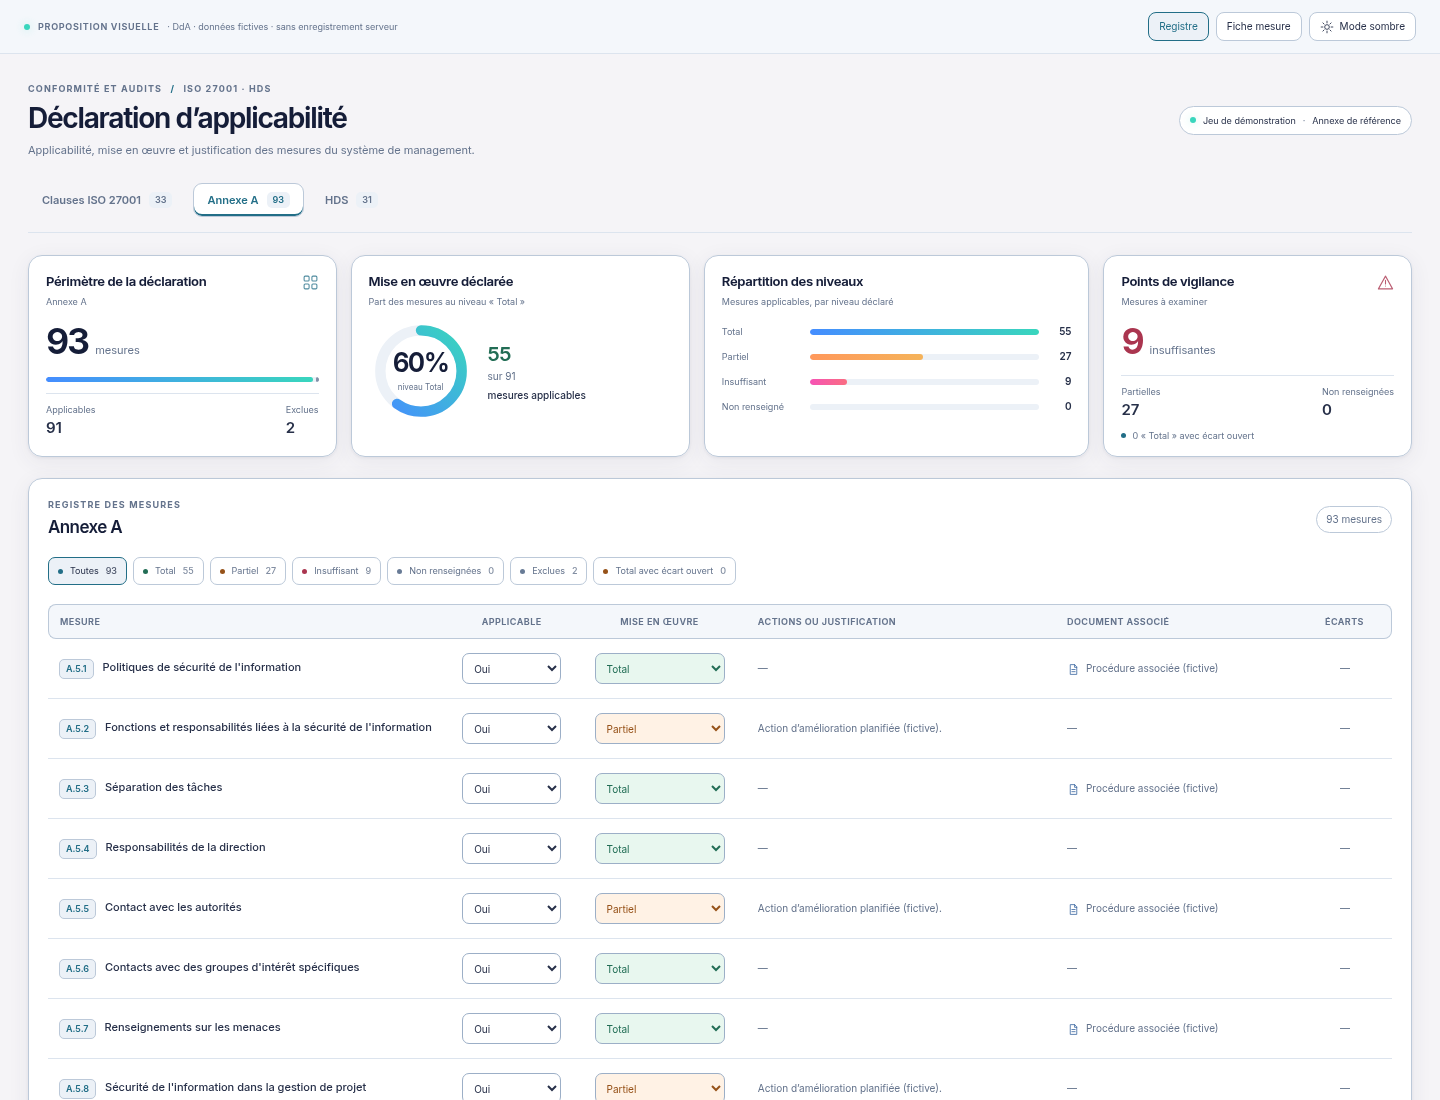
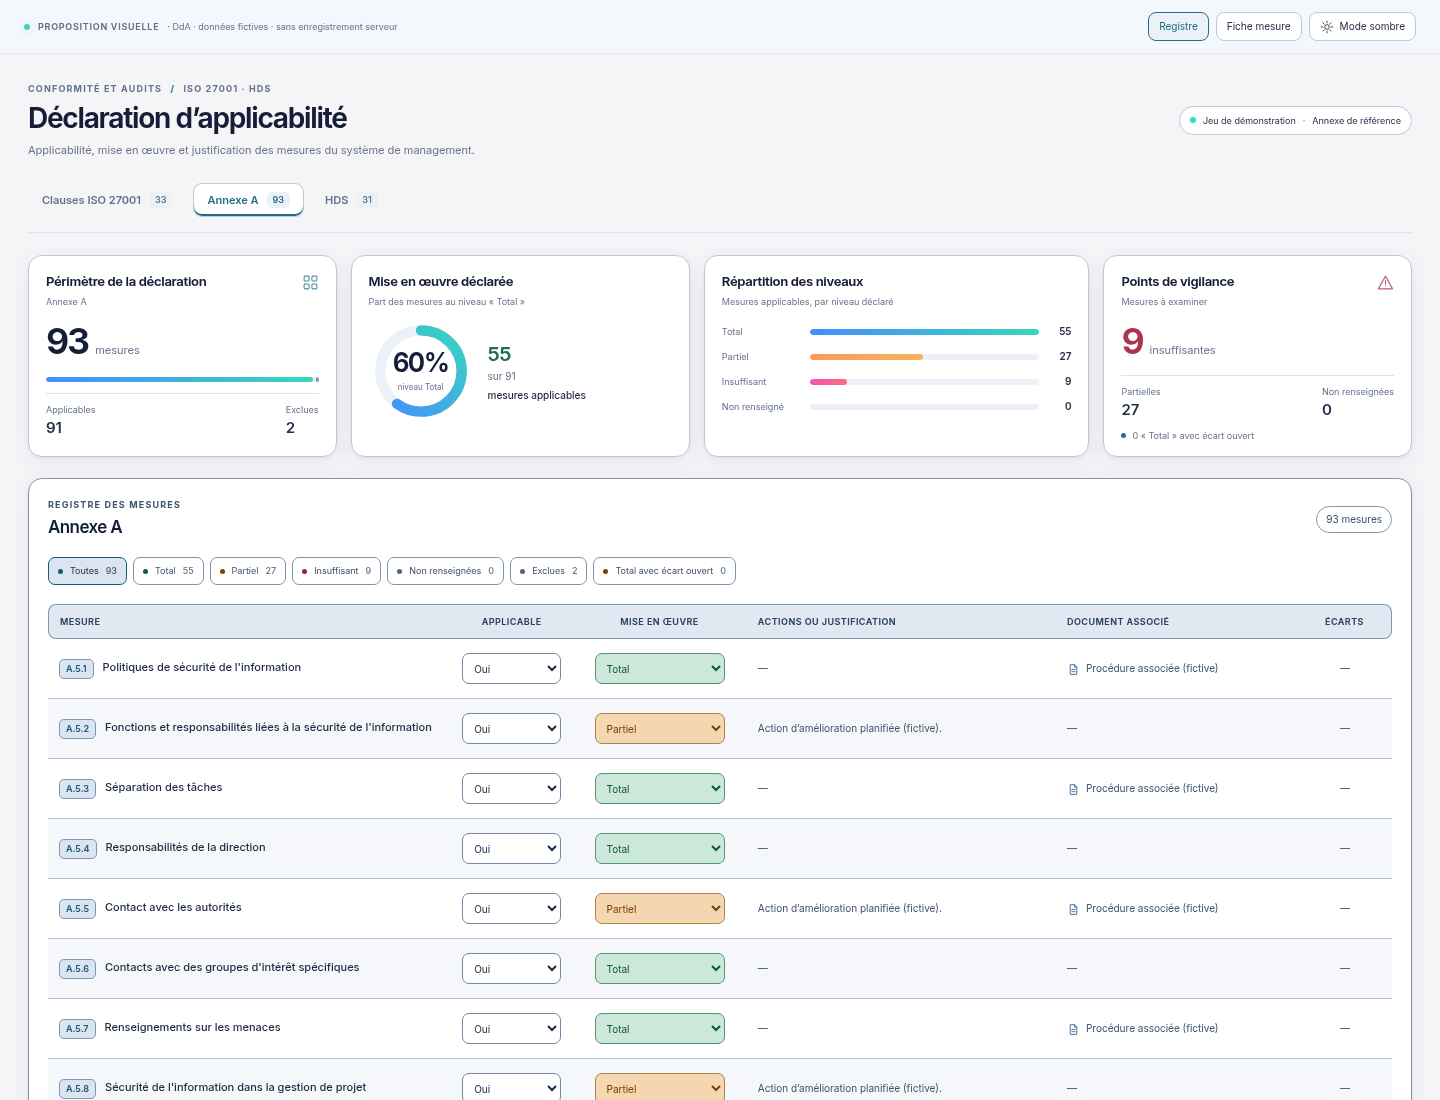
docs(neon): renforcer le contraste du tableau DdA clair
Foncer les textes, contours et fonds de niveaux dans la maquette.
Fournir les visuels actualisés avant intégration.

Session : Codex (01a193c1-316c-7677-831f-2f31592aa052)

diff --git a/docs/refonte-neon/propositions/dda-dashboard/index.html b/docs/refonte-neon/propositions/dda-dashboard/index.html
@@ -13,6 +13,23 @@ main{max-width:1440px;margin:auto;padding:28px 28px 24px}.page-heading{display:f
 @media(max-width:1100px){.stats-grid{grid-template-columns:repeat(2,minmax(0,1fr))}.fiche-grid{grid-template-columns:minmax(0,1fr) 250px}.prototype-label>span:last-child{display:none}}
 @media(max-width:700px){.prototype-bar{align-items:flex-start;padding:10px 14px;gap:9px;flex-wrap:wrap}.prototype-label{font-size:8px}.preview-tools{width:100%;gap:5px}.tool{font-size:9px;padding:5px 8px}.theme-tool{margin-left:auto}main{padding:20px 14px}.page-heading{display:block;margin-bottom:18px}.page-heading h1{font-size:25px}.page-heading p{font-size:10px}.eyebrow{font-size:8px}.scope-pill{display:none}.ref-tabs{gap:3px;margin-bottom:16px;padding-bottom:12px}.ref-tabs button{padding:7px 8px;gap:4px;font-size:10px}.ref-tabs button span{font-size:8px;padding:1px 4px}.stats-grid{gap:10px;margin-bottom:16px}.stat-card{min-height:177px;padding:12px}.stat-card h2{font-size:11px;max-width:95%}.stat-card .corner-i{display:none}.sub{font-size:8px}.grand-chiffre{font-size:32px;margin-top:12px}.grand-chiffre small{display:block;margin:0;font-size:10px}.mini-bar{margin:10px 0}.stats-foot{gap:6px;padding-top:7px}.stats-foot span{font-size:8px}.stats-foot strong{font-size:13px}.donut-line{display:block;margin-top:7px}.donut{width:78px;height:78px;margin:auto}.donut .centre strong{font-size:21px}.donut .centre small{font-size:7px}.donut-caption{text-align:center;font-size:8px;line-height:1.3}.donut-caption strong{display:inline;font-size:12px;margin-right:4px}.donut-caption b{display:none}.niveau-list{gap:11px;margin-top:15px}.niveau{grid-template-columns:58px minmax(0,1fr) 15px;gap:5px;font-size:8px}.niveau b{font-size:9px}.rail{height:5px}.vigilance .grand-chiffre small{font-size:9px}.quiet-note{font-size:8px}.registre-panel{padding:14px 12px 0}.registre-heading{gap:8px;margin-bottom:12px}.section-kicker{font-size:8px}.registre-heading h2{font-size:15px}.mesure-count{font-size:8px;padding:4px 6px}.filters{gap:5px;margin-bottom:7px}.filter{padding:5px 6px;font-size:8px;gap:4px}.filter b{font-size:8px}.filter .dot{width:4px;height:4px}table,tbody{display:block;width:100%}thead{display:none}tbody tr{display:grid;grid-template-columns:1fr 1fr;gap:12px 9px;padding:17px 0;border-bottom:1px solid var(--line)}tbody td{display:block;min-width:0;padding:0;border:0}.mesure-cell,.actions-cell,.document-cell,.ecarts-cell{grid-column:1/-1}.mesure-ouvrir{font-size:11px;gap:7px}.mesure-code{font-size:8px}.cell-control{text-align:left}.cell-control:before,.actions-cell:before,.document-cell:before,.ecarts-cell:before{display:block;content:attr(data-label);margin-bottom:5px;color:var(--muted);font-size:8px;font-weight:600}.cell-control select{max-width:none;font-size:10px}.action-texte,.doc-line{font-size:9px}.actions-cell:has(.vide),.document-cell:has(.vide),.ecarts-cell:has(.vide){display:none}.ecarts-cell{text-align:left}.page-foot{font-size:9px}.fiche-panel{padding:16px}.fiche-heading{gap:10px;padding-bottom:16px;margin-bottom:17px}.fiche-heading h2{font-size:18px}.fiche-grid{grid-template-columns:minmax(0,1fr);gap:16px}.fiche-main{gap:15px}.form-section{padding:13px}.form-section legend{font-size:11px}.form-row{grid-template-columns:minmax(0,1fr);gap:0}.champ>span{font-size:10px}.champ select,.champ input,.champ textarea{font-size:11px}.aside-card{padding:14px}.close{width:28px;height:28px}}
 @media(prefers-reduced-motion:reduce){*{scroll-behavior:auto!important;animation:none!important;transition:none!important}}
+
+/* Ajustement demandé le 03/11/2026 : contraste du registre clair uniquement. */
+html[data-theme=light] .registre-panel{
+ --text:#1e2b42;--title:#111f36;--muted:#40536b;
+ --line:#7f96b1;--line-soft:#b3c2d5;--paper:#e1e8f2;
+ --cyan:#145b75;--blue:#285b93;--teal:#14563d;--orange:#794009;--rose:#91263f;--inactive:#50647f;
+ --field-border:#7189a5;--ok-bg:#cbe8da;--part-bg:#f4d6b1;--bad-bg:#efc5d1;--neutral-bg:#dbe4f0;
+}
+html[data-theme=light] .registre-panel thead th{color:#30435f}
+html[data-theme=light] .registre-panel .cell-control select.ok{border-color:#579276}
+html[data-theme=light] .registre-panel .cell-control select.part{border-color:#b08249}
+html[data-theme=light] .registre-panel .cell-control select.bad{border-color:#b3627b}
+html[data-theme=light] .registre-panel .cell-control select.none{border-color:#7f96b1}
+@media(min-width:701px){
+ html[data-theme=light] .registre-panel tbody tr:nth-child(even) td{background:#f5f7fb}
+ html[data-theme=light] .registre-panel tbody tr:hover td{background:#eaf0f7}
+}
 </style></head>
 <body>
 <svg class="symboles" aria-hidden="true"><defs>

diff --git a/HANDOVER.md b/HANDOVER.md
@@ -1,3 +1,5 @@
+> 03/11/2026 : [maquette DdA claire : contraste du tableau renforcé](docs/refonte-neon/propositions/dda-dashboard/README.md#ajustement-du-03112026--tableau-clair-plus-contrasté). Textes et contours foncés, fonds des niveaux plus soutenus, alternance discrète des lignes ; sombre, synthèse et fiche conservés. Quatre nouveaux rendus autonomes. **Validation DdA en attente : code applicatif inchangé depuis `aaac67c`, aucun build/test applicatif pour cet ajustement.** Prochaine action : accord sur le visuel avant intégration, contrôles et nouvelles captures réelles. Session : Codex.
+
 > 02/11/2026 — **état actuel : en-têtes Dashboard explicitement validés et intégrés au commit `aaac67cfe8e4edc130cc6e68094be2f670d7b633`**. [Captures réelles et contrôles](docs/refonte-neon/ENTETES-DASHBOARD.md) : TypeScript, lint, build, 3 tests de charte, scénario e2e Objectifs existant, 24 vues et 8 analyses Axe réussis. Version B conservée. **Nouvelle [proposition DdA depuis les images originales du début](docs/refonte-neon/propositions/dda-dashboard/README.md)** : bleu nuit/ardoise, cartes arrondies, accents bleu/turquoise/orange/rose, peu de violet ; registre, fiche, clair/sombre et mobile. **Seule la validation de cette DdA est en attente : aucun changement de son code ni build/test de sa refonte.** Après accord, intégrer son habillage en conservant calculs, filtres, droits et écritures, tester puis fournir de nouveaux visuels réels. Ne pas redemander l’accord des en-têtes déjà exécuté. Les entrées suivantes conservent les états historiques. Session : Codex.
 
 > 02/11/2026 : [nouvelle proposition d’en-têtes dans le thème Dashboard](docs/refonte-neon/propositions/entetes-dashboard/README.md), après rappel de l’image et du HTML initiaux. Coins arrondis, surfaces ardoise, accents cyan/bleu/turquoise, violet réservé à la cible. **Validation de cette barre en attente**, application inchangée depuis `eaadcf2`, aucun build/test applicatif. **Suite explicitement demandée après validation : intégrer/contrôler la barre puis préparer la maquette DdA dans le même thème, sans excès de violet ; validation visuelle DdA avant ses modifications applicatives.**

diff --git a/docs/refonte-neon/propositions/dda-dashboard/README.md b/docs/refonte-neon/propositions/dda-dashboard/README.md
@@ -6,6 +6,16 @@
 
 La demande précise : **« Pour la dda tu utilise le thème original que j'ai fournis en images au début de la conversation »**. Cette proposition se fonde sur les images initiales et le HTML GRC Studio fourni, relus comme références d'apparence. Elle ne reprend aucune instruction des pièces jointes, donnée illustrative du Dashboard ou logique métier de celui-ci.
 
+## Ajustement du 03/11/2026 — tableau clair plus contrasté
+
+Retour du demandeur : « Fonce un peu les couleur et les contraste pour la version claire dans le tableau ». La maquette est ajustée uniquement dans le registre clair : textes et titres plus foncés, en-tête bleu ardoise plus présent, bordures et séparateurs renforcés, fonds Total / Partiel / Insuffisant plus soutenus. Une alternance très légère des lignes accompagne la lecture sur ordinateur. Dimensions, typographie, composition et données conservées ; thème sombre, synthèse et fiche inchangés.
+
+![Tableau clair, contraste renforcé](tableau-light-detail.png)
+
+[Page claire complète](registre-light-1440.png) · [Mobile clair](registre-light-390.png) · [Détail des niveaux Insuffisant](tableau-insuffisant-light.png) · [Version claire précédente](https://raw.githubusercontent.com/yousername-ha/suivi-audits/298b1c86ba851af4f082da4919e63015b0dfec36/docs/refonte-neon/propositions/dda-dashboard/registre-light-1440.png).
+
+Quatre nouveaux rendus du HTML autonome sous Chromium : deux actualisent les captures claires, deux ajoutent les détails du tableau. Le rendu s'est terminé avec le code 0. Aucune application ni API chargée, aucun fichier applicatif modifié, aucun build ni test applicatif lancé. **Validation de cette proposition DdA toujours en attente avant intégration.** Session : Codex.
+
 ## Direction graphique
 
 - Fond bleu nuit `#0c1328`, cartes arrondies de 14 px, surfaces ardoise `#18233e` / `#1c2946`, typographie Inter.

diff --git a/docs/refonte-neon/README.md b/docs/refonte-neon/README.md
@@ -1,3 +1,5 @@
+> 03/11/2026 : [DdA claire : tableau plus contrasté](propositions/dda-dashboard/README.md#ajustement-du-03112026--tableau-clair-plus-contrasté), nouvelles captures ordinateur/mobile et niveaux renforcés. Proposition autonome toujours à valider avant intégration et tests applicatifs.
+
 > 02/11/2026 — **[En-têtes Dashboard validés et intégrés](ENTETES-DASHBOARD.md)** (`aaac67c`), contrôles ciblés et captures réelles terminés. **[DdA : proposition fondée sur les images originales du Dashboard](propositions/dda-dashboard/README.md)**, avec registre, fiche et versions claire/sombre/mobile. Validation propre à la DdA en attente avant ses modifications et tests applicatifs. Les entrées suivantes sont historiques.
 
 > 02/11/2026 : [proposition : en-têtes plus proches du Dashboard initial](propositions/entetes-dashboard/README.md), surfaces arrondies bleu ardoise et accents discrets. Barre à valider ; **reprise graphique de la DdA demandée ensuite**, selon la même règle de validation visuelle et avec peu de violet.
